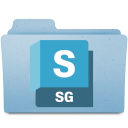
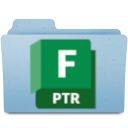
SG-34307 - Rebranding (#70)
* Change all the shotgrid/shotgun occurrences in the repository.

* Change all the SG occurrences in the repository.

* Update logos.

* Update text occurrences.

* Fix PR comments.

* Update text.

---------

Changed region(s): [[0.2188, 0.2812, 0.75, 0.875]]

diff --git a/python/tk_houdini/ui_generation.py b/python/tk_houdini/ui_generation.py
@@ -120,17 +120,17 @@ class AppCommandsMenu(AppCommandsUI):
         self._context_menu_item_id = None
 
     def create_menu(self, xml_path):
-        """Create the SG Menu"""
+        """Create the PTR Menu"""
 
         import hou
 
         # houdini 15+ allows for dynamic menu creation, so do that if possible.
         # otherwise, fallback to the static menu
         if hou.applicationVersion()[0] >= 15:
-            self._engine.logger.debug("Constructing dynamic SG menu.")
+            self._engine.logger.debug("Constructing dynamic PTR menu.")
             self._create_dynamic_menu(xml_path)
         else:
-            self._engine.logger.debug("Constructing static SG menu.")
+            self._engine.logger.debug("Constructing static PTR menu.")
             self._create_static_menu(xml_path)
 
     def _get_context_commands(self):
@@ -160,7 +160,7 @@ class AppCommandsMenu(AppCommandsUI):
                 name=self._get_context_name(),
                 command_dict={
                     "properties": {
-                        "description": "Displays the current context, jumps to SG.",
+                        "description": "Displays the current context, jumps to PTR.",
                         "type": "context_menu",
                     },
                     "callback": lambda: None,
@@ -211,7 +211,7 @@ class AppCommandsMenu(AppCommandsUI):
         return self._commands_by_app
 
     def _build_shotgun_menu_item(self):
-        """Constructs a top-level "ShotGrid" menu.
+        """Constructs a top-level "Flow Production Tracking" menu.
 
         Same logic for both the static and dynamic menu.
 
@@ -221,7 +221,7 @@ class AppCommandsMenu(AppCommandsUI):
 
         root = ET.Element("mainMenu")
         menubar = ET.SubElement(root, "menuBar")
-        shotgun_menu = self._menuNode(menubar, "ShotGrid", "tk.shotgun")
+        shotgun_menu = self._menuNode(menubar, "Flow Production Tracking", "tk.shotgun")
         insert_before = ET.SubElement(shotgun_menu, "insertBefore")
         insert_before.text = "help_menu"
 
@@ -485,7 +485,13 @@ class AppCommandsPanelHandler(AppCommandsUI):
 
 
 class AppCommandsShelf(AppCommandsUI):
-    def __init__(self, engine, commands=None, name="ShotGrid", label="ShotGrid"):
+    def __init__(
+        self,
+        engine,
+        commands=None,
+        name="Flow Production Tracking",
+        label="Flow Production Tracking",
+    ):
         """Initialize the shotgun commands shelf.
 
         engine:
@@ -717,7 +723,7 @@ def get_registered_commands(engine):
     not registered, but always present in the shotgun menu and shelves.
     Those commands are:
 
-        "Jump to ShotGrid"
+        "Jump to Flow Production Tracking"
         "Jump to File System"
     """
 
@@ -730,10 +736,10 @@ def get_registered_commands(engine):
     )
 
     jump_to_sg_cmd = AppCommand(
-        name="Jump to ShotGrid",
+        name="Jump to Flow Production Tracking",
         command_dict={
             "properties": {
-                "description": "Open the current SG context in your web browser.",
+                "description": "Open the current PTR context in your web browser.",
                 "icon": sg_icon.replace("\\", "/"),  # account for UNC path
                 "type": "context_menu",
             },
@@ -755,7 +761,7 @@ def get_registered_commands(engine):
             command_dict={
                 "properties": {
                     "icon": fs_icon.replace("\\", "/"),  # account for UNC path
-                    "description": "Open the current SG context in your file browser.",
+                    "description": "Open the current PTR context in your file browser.",
                     "type": "context_menu",
                 },
                 "callback": lambda: _jump_to_fs(engine),
@@ -1052,7 +1058,7 @@ import tank.platform.engine
 
 engine = tank.platform.engine.current_engine()
 if engine is None or not hasattr(engine, 'launch_command'):
-    msg = "ShotGrid: Houdini engine is not loaded."
+    msg = "Flow Production Tracking: Houdini engine is not loaded."
     if hou.isUIAvailable():
         hou.ui.displayMessage(msg)
     else:
@@ -1108,8 +1114,8 @@ def createInterface():
         import tank.platform.engine
     except ImportError:
         return NoPanelWidget(
-            "It looks like you're running Houdini outside of a SG "
-            "context. Next time you launch Houdini from within a SG "
+            "It looks like you're running Houdini outside of a PTR "
+            "context. Next time you launch Houdini from within a PTR "
             "context, you will see the '%s' panel here."
         )
 
@@ -1209,11 +1215,11 @@ try:
     # special id if there is no shotgun context/engine
     if command_id == "tk.houdini.menu.no.shotgun":
         msg = (
-            "It appears as though you are not currently working in a SG "
-            "context. There is no SG for Houdini Engine running so no "
-            "menu or shelf items are available. In order to restart the SG "
+            "It appears as though you are not currently working in a PTR "
+            "context. There is no PTR for Houdini Engine running so no "
+            "menu or shelf items are available. In order to restart the PTR "
             "integration, please close and reopen Houdini or choose a file "
-            "from your SG project in the 'Recent Files' menu. If you "
+            "from your PTR project in the 'Recent Files' menu. If you "
             "believe this to be an error, please contact your support team."
         )
         hou.ui.displayMessage(msg, severity=hou.severityType.Warning)
@@ -1235,7 +1241,7 @@ try:
         engine.launch_command(command_id)
 except Exception as e:
     # handle any exceptions raised during menu building
-    msg = "An error occurred building the SG menu...\\n\\n%s" % (e,)
+    msg = "An error occurred building the PTR menu...\\n\\n%s" % (e,)
     if engine:
         hou.ui.displayMessage(msg, severity=hou.severityType.Error)
     else:

diff --git a/engine.py b/engine.py
@@ -84,7 +84,7 @@ class HoudiniEngine(sgtk.platform.Engine):
 
         if self._houdini_version[0] >= 15:
             # In houdini 15+, we can use the dynamic menus and shelf api to
-            # properly handle cases where a file is loaded outside of a SG
+            # properly handle cases where a file is loaded outside of a PTR
             # context. Make sure the timer that looks for current file changes
             # is running.
             tk_houdini = self.import_module("tk_houdini")
@@ -278,11 +278,11 @@ class HoudiniEngine(sgtk.platform.Engine):
             # dismiss the dialog to unblock it.
             def run_when_idle():
                 hou.ui.displayMessage(
-                    text="Houdini 18 versions older than 18.0.348 are unstable when using SG "
-                    "Toolkit. Be aware that Houdini crashes may occur if attempting to use "
-                    "Toolkit apps from your current Houdini session. SG recommends updating "
-                    "Houdini to 18.0.348 or newer.",
-                    title="SG Toolkit",
+                    text="Houdini 18 versions older than 18.0.348 are unstable when using "
+                    "Flow Production Tracking. Be aware that Houdini crashes may "
+                    "occur if attempting to use Toolkit apps from your current Houdini "
+                    "session. PTR recommends updating Houdini to 18.0.348 or newer.",
+                    title="Flow Production Tracking",
                     severity=hou.severityType.Warning,
                 )
 

diff --git a/hooks/tk-multi-publish2/basic/publish_session.py b/hooks/tk-multi-publish2/basic/publish_session.py
@@ -41,8 +41,8 @@ class HoudiniSessionPublishPlugin(HookBaseClass):
         loader_url = "https://help.autodesk.com/view/SGDEV/ENU/?contextId=PC_APP_LOADER"
 
         return """
-        Publishes the file to ShotGrid. A <b>Publish</b> entry will be
-        created in ShotGrid which will include a reference to the file's current
+        Publishes the file to Flow Production Tracking. A <b>Publish</b> entry will be
+        created in Flow Production Tracking which will include a reference to the file's current
         path on disk. If a publish template is configured, a copy of the
         current session will be copied to the publish template path which
         will be the file that is published. Other users will be able to access
@@ -57,7 +57,7 @@ class HoudiniSessionPublishPlugin(HookBaseClass):
         file to the next version after publishing.
 
         The <code>version</code> field of the resulting <b>Publish</b> in
-        ShotGrid will also reflect the version number identified in the filename.
+        Flow Production Tracking will also reflect the version number identified in the filename.
         The basic worklfow recognizes the following version formats by default:
 
         <ul>

diff --git a/python/tk_houdini/bootstrap.py b/python/tk_houdini/bootstrap.py
@@ -18,7 +18,7 @@ import traceback
 # constants defining environment variables used during bootstrap
 
 # Name of the env variable that stores the temp directory where .xml files are
-# written to defined menus, shelves and python panels for the SG integration.
+# written to defined menus, shelves and python panels for the PTR integration.
 g_temp_env = "TK_HOUDINI_TMP"
 
 # Name of the env variable that stores the serialized context used durring
@@ -86,9 +86,9 @@ def bootstrap_classic():
         context = sgtk.context.deserialize(os.environ.get(g_sgtk_context_env))
     except Exception as e:
         bootstrap_exception(
-            "Toolkit bootstrap failed to extract the current context from the "
-            "environment! The SG integration will be disabled. Details: "
-            "%s" % (e,)
+            "Flow Production Tracking Toolkit bootstrap failed to extract the "
+            "current context from the environment! The PTR integration will be "
+            "disabled. Details: %s" % (e,)
         )
         return
 

diff --git a/plugins/basic/python/tk_houdini_basic/plugin_bootstrap.py b/plugins/basic/python/tk_houdini_basic/plugin_bootstrap.py
@@ -96,8 +96,8 @@ def bootstrap(plugin_root_path):
         # credentials.
         user = sgtk.authentication.ShotgunAuthenticator().get_user()
     except sgtk.authentication.AuthenticationCancelled:
-        # TODO: show a "SG > Login" menu in houdini
-        sgtk_logger.info("SG login was cancelled by the user.")
+        # TODO: show a "PTR > Login" menu in houdini
+        sgtk_logger.info("PTR login was cancelled by the user.")
         return
 
     # Create a boostrap manager for the logged in user with the plug-in
@@ -120,7 +120,7 @@ def bootstrap(plugin_root_path):
     toolkit_mgr.progress_callback = bootstrap_progress_callback
 
     # start engine
-    sgtk_logger.info("Bootstrapping the SG engine for Houdini...")
+    sgtk_logger.info("Bootstrapping the PTR engine for Houdini...")
     toolkit_mgr.bootstrap_engine("tk-houdini", entity)
 
     sgtk_logger.debug("Bootstrap complete.")

diff --git a/python/tk_houdini/menu_action.py b/python/tk_houdini/menu_action.py
@@ -26,6 +26,6 @@ cmd_id = sys.argv[1]
 engine = tank.platform.engine.current_engine()
 
 if engine is None or not hasattr(engine, "launch_command"):
-    error("ShotGrid: Houdini engine is not loaded")
+    error("Flow Production Tracking: Houdini engine is not loaded")
 else:
     engine.launch_command(cmd_id)

diff --git a/classic_startup/python2.6libs/pythonrc.py b/classic_startup/python2.6libs/pythonrc.py
@@ -50,7 +50,7 @@ def classic_startup():
 
         stack_trace = traceback.format_exc()
 
-        message = "SG Toolkit Error: %s" % (e,)
+        message = "Flow Production Tracking Error: %s" % (e,)
         details = "Error stack trace:\n\n%s" % (stack_trace)
 
         import hou

diff --git a/classic_startup/python2.7libs/pythonrc.py b/classic_startup/python2.7libs/pythonrc.py
@@ -75,7 +75,7 @@ def classic_startup():
 
         stack_trace = traceback.format_exc()
 
-        message = "SG Toolkit Error: %s" % (e,)
+        message = "Flow Production Tracking Error: %s" % (e,)
         details = "Error stack trace:\n\n%s" % (stack_trace)
 
         import hou

diff --git a/classic_startup/python3.10libs/pythonrc.py b/classic_startup/python3.10libs/pythonrc.py
@@ -50,7 +50,7 @@ def classic_startup():
 
         stack_trace = traceback.format_exc()
 
-        message = "SG Toolkit Error: %s" % (e,)
+        message = "Flow Production Tracking Error: %s" % (e,)
         details = "Error stack trace:\n\n%s" % (stack_trace)
 
         import hou

diff --git a/classic_startup/python3.7libs/pythonrc.py b/classic_startup/python3.7libs/pythonrc.py
@@ -50,7 +50,7 @@ def classic_startup():
 
         stack_trace = traceback.format_exc()
 
-        message = "SG Toolkit Error: %s" % (e,)
+        message = "Flow Production Tracking Error: %s" % (e,)
         details = "Error stack trace:\n\n%s" % (stack_trace)
 
         import hou

diff --git a/classic_startup/python3.9libs/pythonrc.py b/classic_startup/python3.9libs/pythonrc.py
@@ -50,7 +50,7 @@ def classic_startup():
 
         stack_trace = traceback.format_exc()
 
-        message = "SG Toolkit Error: %s" % (e,)
+        message = "Flow Production Tracking Error: %s" % (e,)
         details = "Error stack trace:\n\n%s" % (stack_trace)
 
         import hou

diff --git a/plugins/basic/python2.6libs/pythonrc.py b/plugins/basic/python2.6libs/pythonrc.py
@@ -46,7 +46,7 @@ def plugin_startup():
 
         stack_trace = traceback.format_exc()
 
-        message = "SG Toolkit Error: %s" % (e,)
+        message = "Flow Production Tracking Error: %s" % (e,)
         details = "Error stack trace:\n\n%s" % (stack_trace)
 
         import hou
